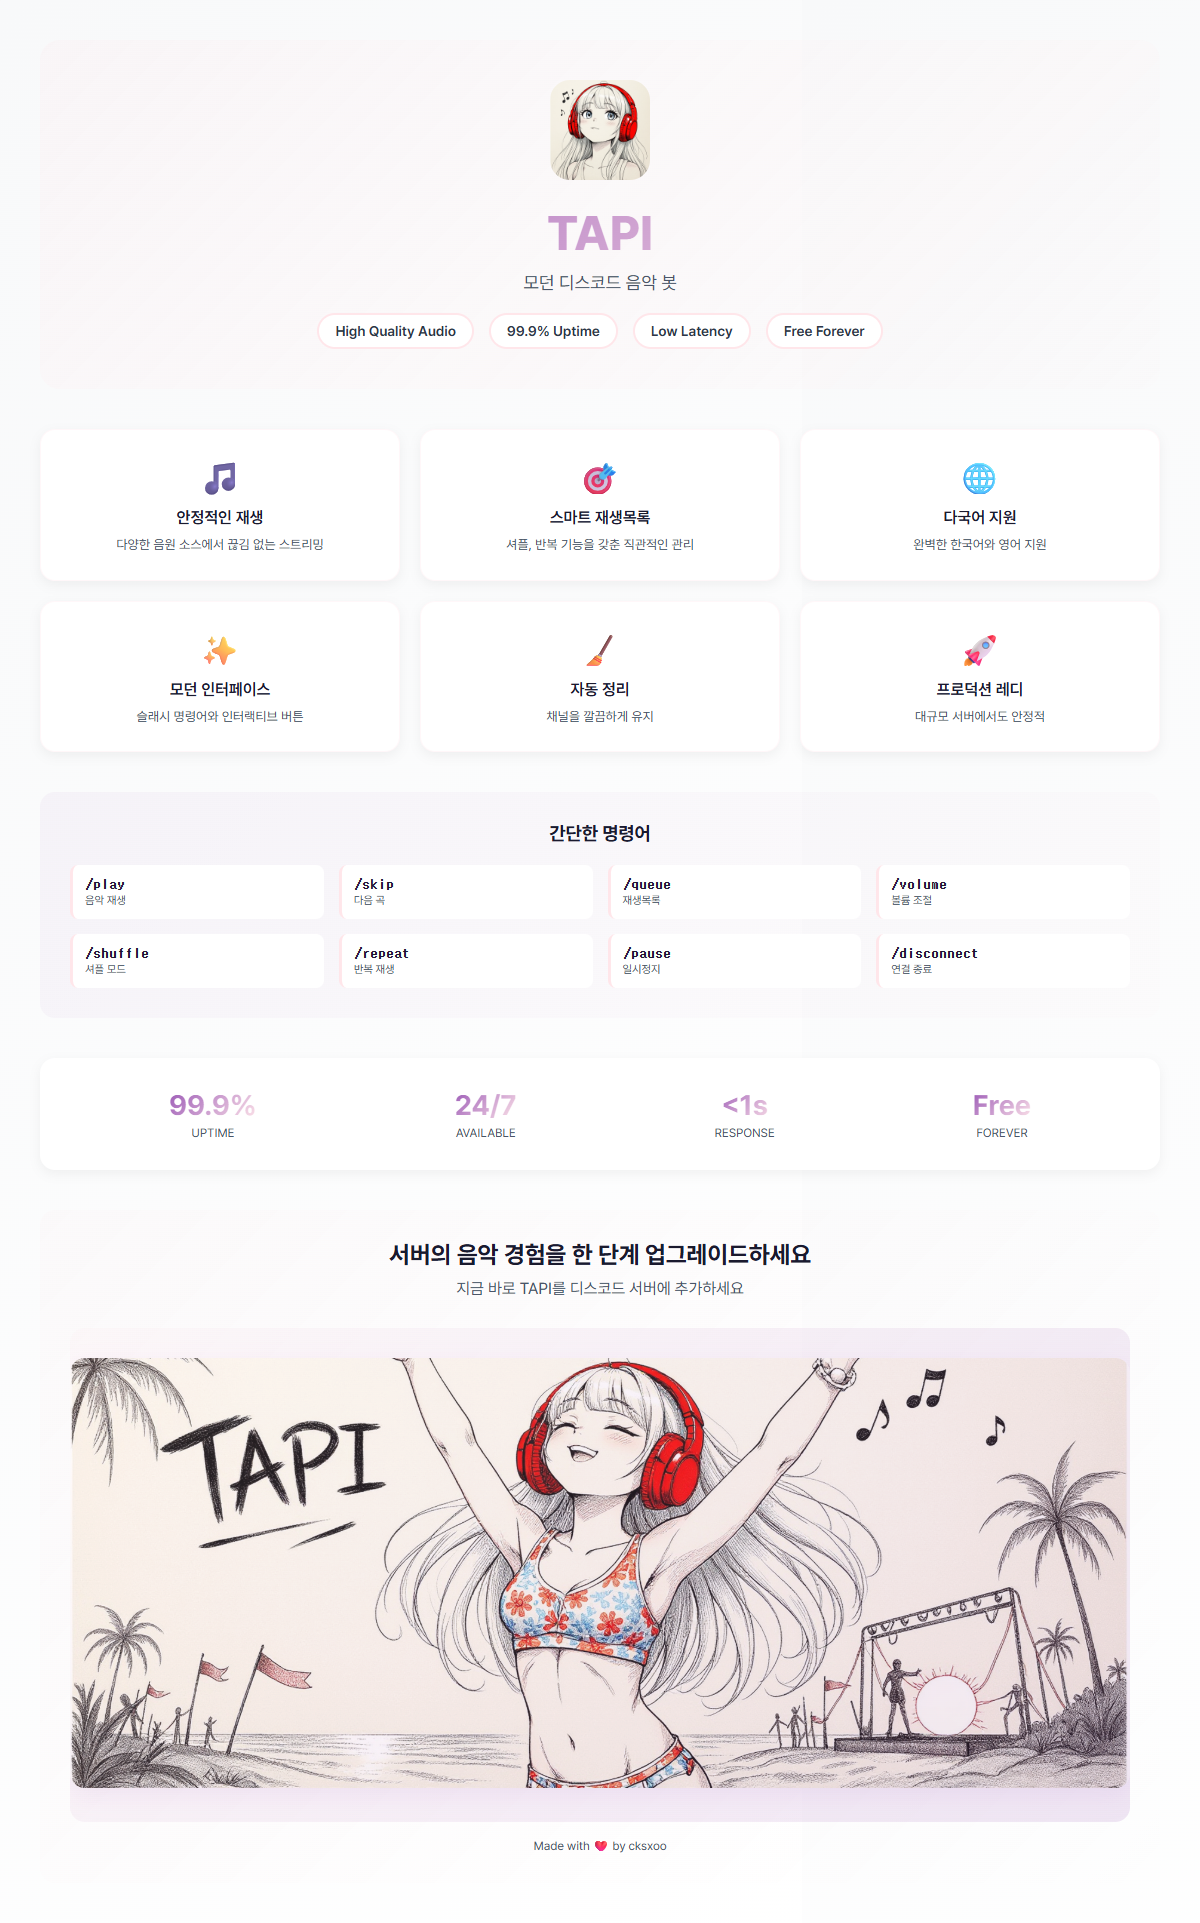
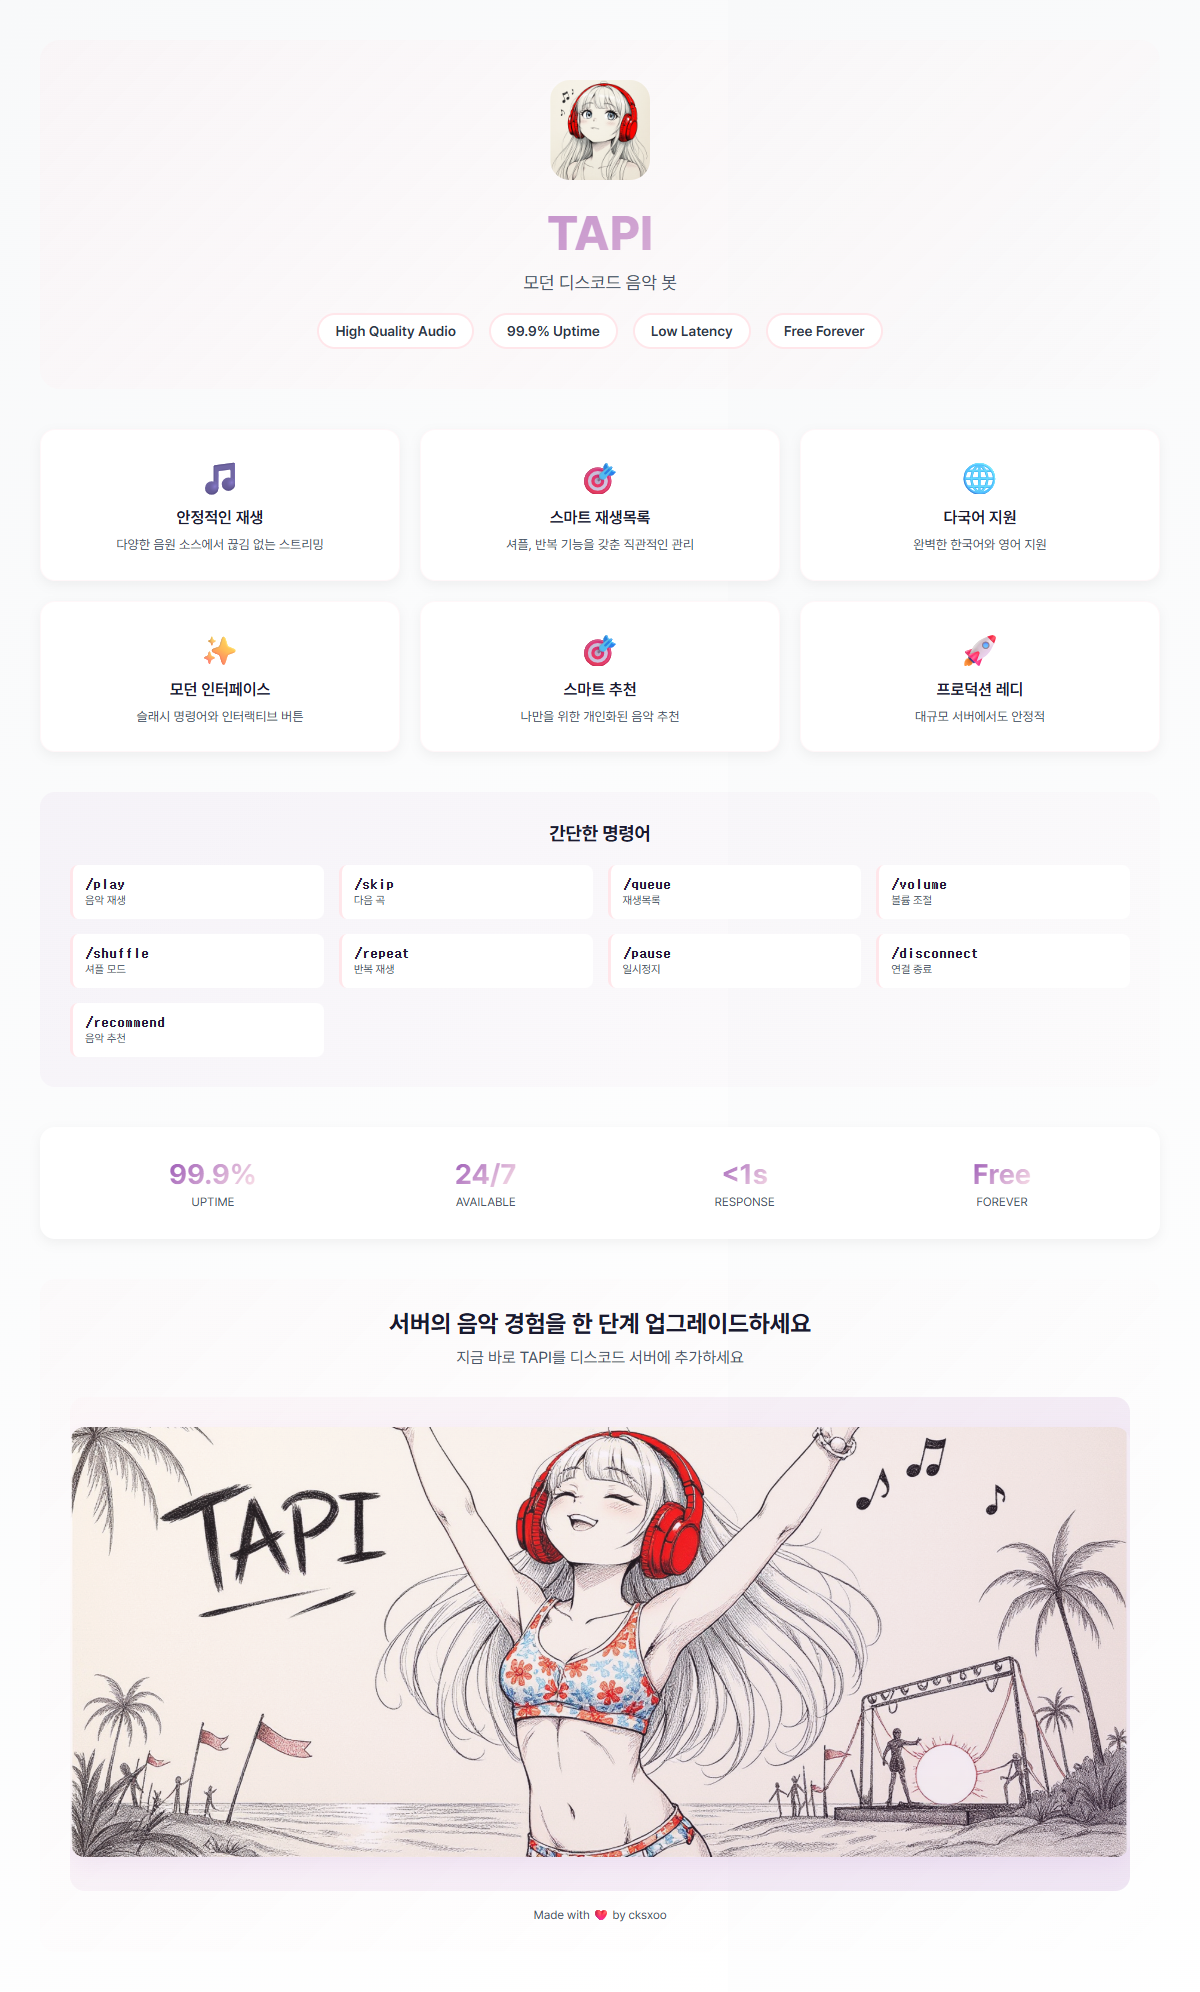
:zap: Update bot descriptions and commands for personalized music recommendations in English and Korean

diff --git a/docs/descriptions/bot_description_for_image_en.html b/docs/descriptions/bot_description_for_image_en.html
@@ -252,9 +252,9 @@
             <div class="feature-desc">Slash commands with interactive buttons</div>
         </div>
         <div class="feature-card">
-            <div class="feature-icon">🧹</div>
-            <div class="feature-title">Auto Cleanup</div>
-            <div class="feature-desc">Keeps your channels organized</div>
+            <div class="feature-icon">🎯</div>
+            <div class="feature-title">Smart Recommendations</div>
+            <div class="feature-desc">Personalized music suggestions just for you</div>
         </div>
         <div class="feature-card">
             <div class="feature-icon">🚀</div>
@@ -297,6 +297,10 @@
             <div class="command">
                 <div class="command-name">/disconnect</div>
                 <div class="command-desc">Leave channel</div>
+            </div>
+            <div class="command">
+                <div class="command-name">/recommend</div>
+                <div class="command-desc">Get music suggestions</div>
             </div>
         </div>
     </div>

diff --git a/docs/descriptions/bot_description_for_image_kr.html b/docs/descriptions/bot_description_for_image_kr.html
@@ -240,9 +240,9 @@
             <div class="feature-desc">슬래시 명령어와 인터랙티브 버튼</div>
         </div>
         <div class="feature-card">
-            <div class="feature-icon">🧹</div>
-            <div class="feature-title">자동 정리</div>
-            <div class="feature-desc">채널을 깔끔하게 유지</div>
+            <div class="feature-icon">🎯</div>
+            <div class="feature-title">스마트 추천</div>
+            <div class="feature-desc">나만을 위한 개인화된 음악 추천</div>
         </div>
         <div class="feature-card">
             <div class="feature-icon">🚀</div>
@@ -285,6 +285,10 @@
             <div class="command">
                 <div class="command-name">/disconnect</div>
                 <div class="command-desc">연결 종료</div>
+            </div>
+            <div class="command">
+                <div class="command-name">/recommend</div>
+                <div class="command-desc">음악 추천</div>
             </div>
         </div>
     </div>
